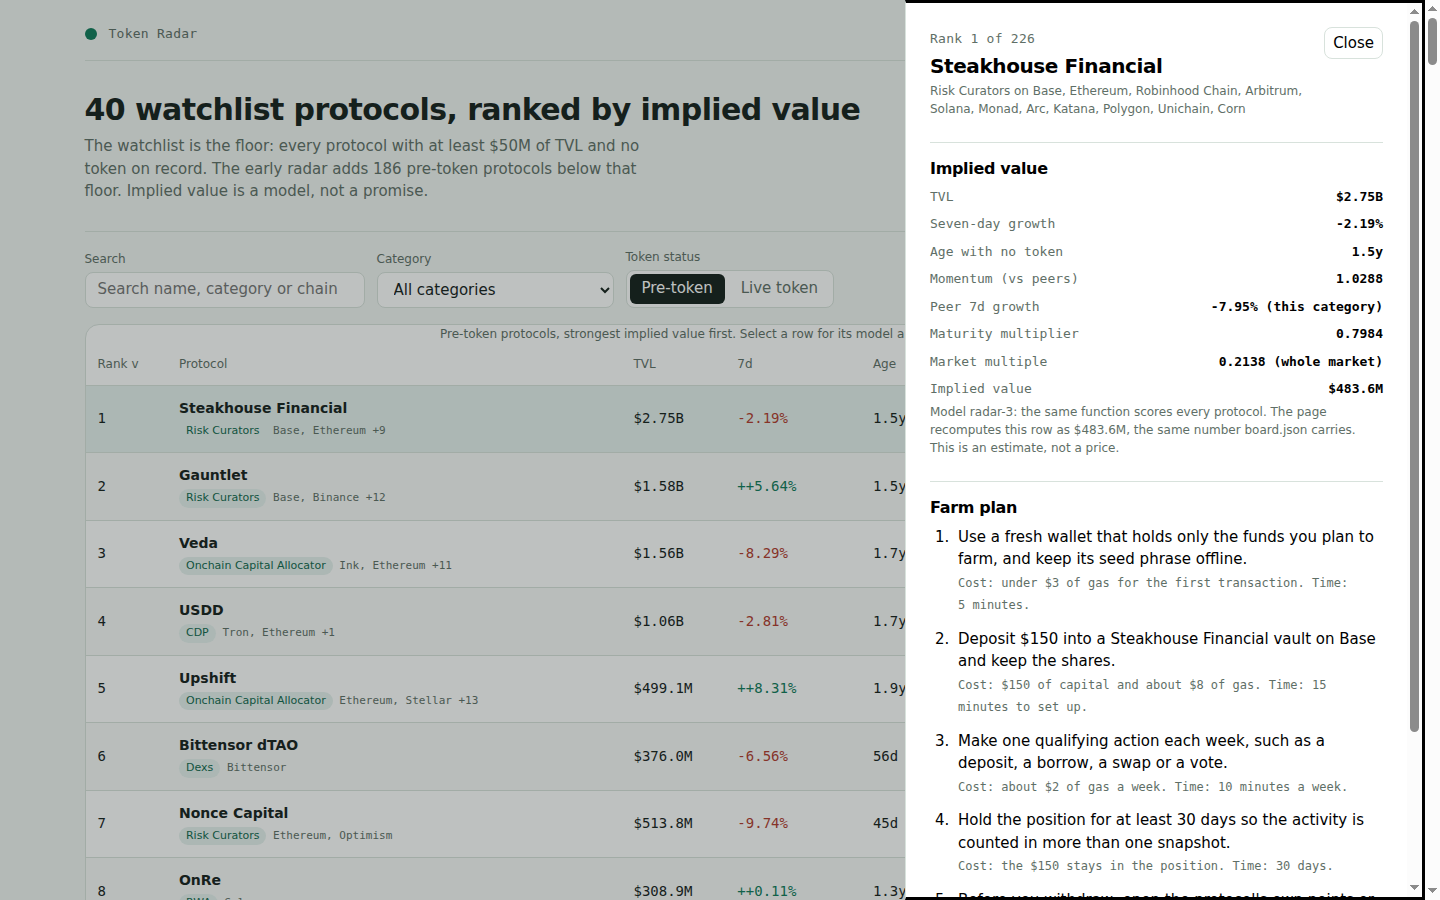
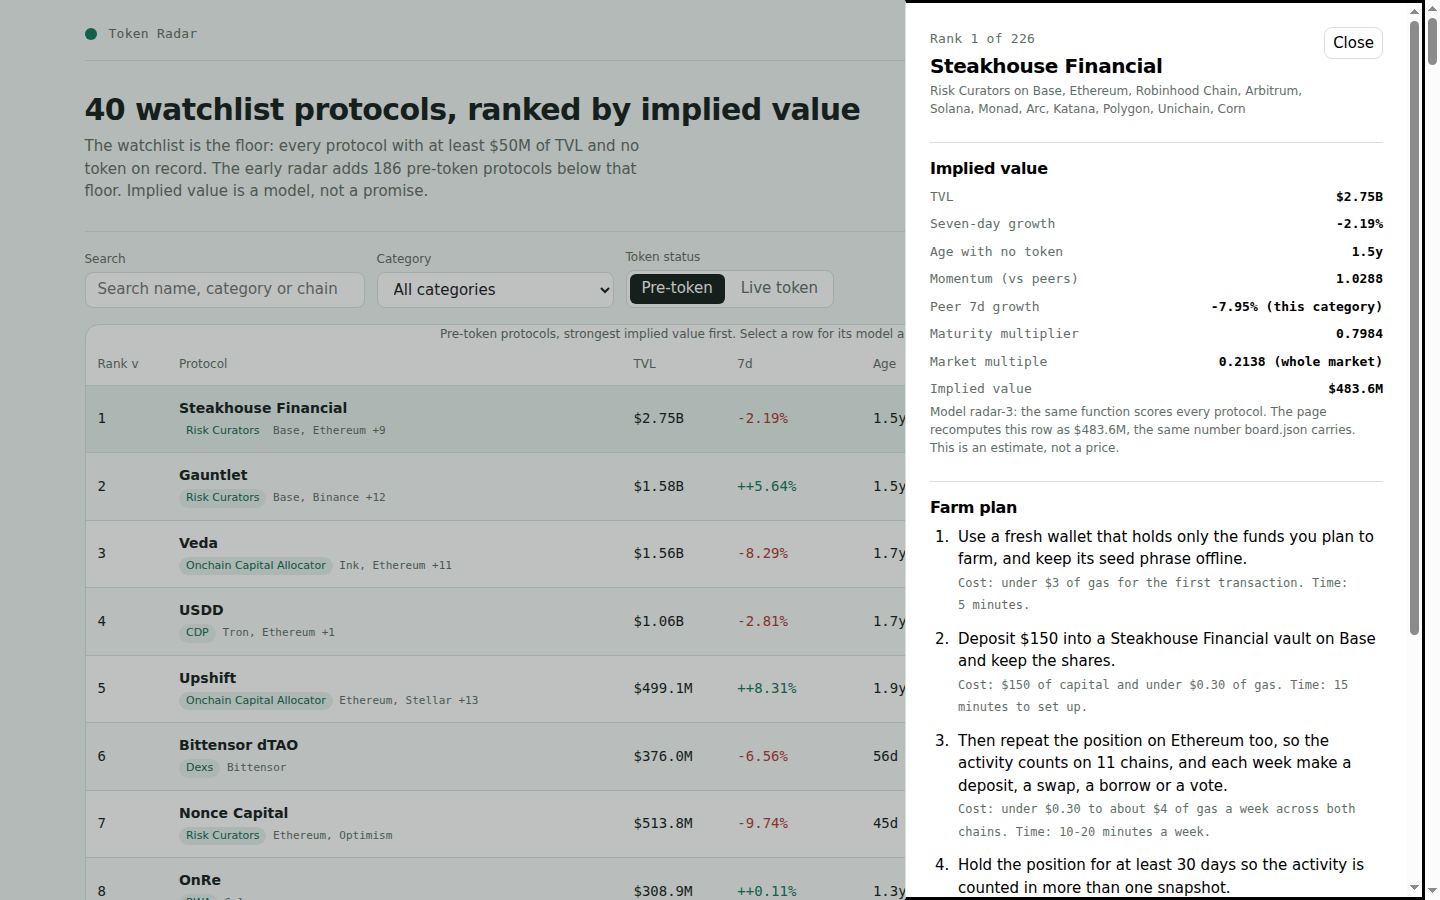
radar-3b: chain-aware gas and per-category risk in farm plans; live-token screenshot

Changed region(s): [[0.6562, 0.8089, 0.9375, 1.0], [0.8125, 0.7467, 0.9375, 0.7778], [0.9688, 0.7156, 1.0, 0.8089]]

diff --git a/dashboard/app.js b/dashboard/app.js
@@ -97,17 +97,47 @@
     if (s.length < 20) s = s + " Hold the position and check the protocol's own page.";
     return s;
   }
+  function gasFor(chain) {
+    var c = (chain || '').toLowerCase();
+    if (c.indexOf('ethereum') >= 0) return 'about $4';
+    if (c.indexOf('arbitrum') >= 0 || c.indexOf('optimism') >= 0 || c.indexOf('base') >= 0 || c.indexOf('polygon') >= 0 || c.indexOf('unichain') >= 0 || c.indexOf('ink') >= 0 || c.indexOf('linea') >= 0 || c.indexOf('scroll') >= 0 || c.indexOf('blast') >= 0 || c.indexOf('mantle') >= 0 || c.indexOf('zksync') >= 0) return 'under $0.30';
+    if (c.indexOf('solana') >= 0 || c.indexOf('sui') >= 0 || c.indexOf('aptos') >= 0 || c.indexOf('near') >= 0) return 'under $0.05';
+    return 'about $1';
+  }
+
+  function riskNoteFor(p) {
+    var c = (p.category || '').toLowerCase();
+    if (c.indexOf('bridge') >= 0 || c.indexOf('canonical') >= 0) return 'bridges hold user funds in one contract, so read its audits and its current TVL before you bridge anything, and never bridge more than you would lose.';
+    if (c.indexOf('oracle') >= 0) return 'an oracle earns from being right, so check which feeds it serves and who pays for them before you stake or deposit anything.';
+    if (c.indexOf('cdp') >= 0 || c.indexOf('stable') >= 0) return 'a stable or CDP position can be liquidated, so keep the collateral ratio well above the minimum and watch the peg.';
+    if (c.indexOf('perpetual') >= 0 || c.indexOf('derivative') >= 0 || c.indexOf('leveraged') >= 0) return 'leverage liquidates, so size the position so a 30% move does not close it.';
+    if (c.indexOf('curator') >= 0 || c.indexOf('allocator') >= 0 || c.indexOf('risk') >= 0) return 'a curator allocates other people\'s capital, so read which vaults it runs and how its fee is charged before you deposit.';
+    return 'check the protocol\'s audits and its TVL trend on DefiLlama before you deposit, and start with the smallest position that still counts.';
+  }
+
+  function weeklyFor(p) {
+    var c = (p.category || '').toLowerCase();
+    if (c.indexOf('lend') >= 0 || c.indexOf('cdp') >= 0) return 'borrow a small amount against the deposit and repay it the same week, so both a supply and a borrow count.';
+    if (c.indexOf('dex') >= 0 || c.indexOf('yield') >= 0) return 'swap a small amount through the pool you funded, so the position shows trading volume as well as liquidity.';
+    if (c.indexOf('bridge') >= 0) return 'send a small transfer back across the bridge once a week, so the route stays active.';
+    if (c.indexOf('staking') >= 0 || c.indexOf('restak') >= 0) return 'claim and restake the rewards once a week, so the receipt keeps compounding.';
+    return 'make a deposit, a swap, a borrow or a vote.';
+  }
+
   function farmSteps(p) {
     var chain = chainOf(p);
     var capital = capitalFor(p);
     var hold = holdDaysFor(p.age_days);
+    var second = p.chains && p.chains.length >= 2 ? p.chains[1] : null;
+    var weekly = 'Then each week ' + weeklyFor(p);
     return [
       { text: 'Use a fresh wallet that holds only the funds you plan to farm, and keep its seed phrase offline.', cost: 'under $3 of gas for the first transaction', time: '5 minutes' },
-      { text: actionFor(p, capital, chain), cost: '$' + capital + ' of capital and about $' + (capital >= 150 ? 8 : 4) + ' of gas', time: '15 minutes to set up' },
-      { text: 'Make one qualifying action each week, such as a deposit, a borrow, a swap or a vote.', cost: 'about $2 of gas a week', time: '10 minutes a week' },
+      { text: actionFor(p, capital, chain), cost: '$' + capital + ' of capital and ' + gasFor(chain) + ' of gas', time: '15 minutes to set up' },
+      { text: second === null ? weekly : 'Then repeat the position on ' + second + ' too, so the activity counts on ' + p.chains.length + ' chains, and each week ' + weeklyFor(p), cost: second === null ? gasFor(chain) + ' of gas a week' : gasFor(chain) + ' to ' + gasFor(second) + ' of gas a week across both chains', time: '10-20 minutes a week' },
       { text: 'Hold the position for at least ' + hold + ' days so the activity is counted in more than one snapshot.', cost: 'the $' + capital + ' stays in the position', time: hold + ' days' },
       { text: "Before you withdraw, open the protocol's own points or rewards page and claim only from the link it publishes.", cost: 'no fee to check, and never pay to claim', time: '10 minutes' },
-      { text: 'Write the wallet, the dates and every transaction in a farm log so you can repeat the position or unwind it.', cost: 'nothing but the log', time: '5 minutes' }
+      { text: 'Write the wallet, the dates and every transaction in a farm log so you can repeat the position or unwind it.', cost: 'nothing but the log', time: '5 minutes' },
+      { text: 'Before you commit, ' + riskNoteFor(p), cost: 'no fee to read, and worth an hour', time: '30-60 minutes' }
     ].map(stepText);
   }
 

diff --git a/lib/model.ts b/lib/model.ts
@@ -426,6 +426,26 @@ function capitalFor(p: SnapshotProtocol): number {
   return 50;
 }
 
+/** A rough gas figure for one transaction on a chain, from the chain's own economics. */
+function gasFor(chain: string): string {
+  const c = chain.toLowerCase();
+  if (c.includes('ethereum')) return 'about $4';
+  if (c.includes('arbitrum') || c.includes('optimism') || c.includes('base') || c.includes('polygon') || c.includes('unichain') || c.includes('ink') || c.includes('linea') || c.includes('scroll') || c.includes('blast') || c.includes('mantle') || c.includes('zksync')) return 'under $0.30';
+  if (c.includes('solana') || c.includes('sui') || c.includes('aptos') || c.includes('near')) return 'under $0.05';
+  return 'about $1';
+}
+
+/** The risk a reader should check before committing capital, read from the protocol's own category. */
+function riskNoteFor(p: SnapshotProtocol): string {
+  const c = (p.category ?? '').toLowerCase();
+  if (c.includes('bridge') || c.includes('canonical')) return 'bridges hold user funds in one contract, so read its audits and its current TVL before you bridge anything, and never bridge more than you would lose.';
+  if (c.includes('oracle')) return 'an oracle earns from being right, so check which feeds it serves and who pays for them before you stake or deposit anything.';
+  if (c.includes('cdp') || c.includes('stable')) return 'a stable or CDP position can be liquidated, so keep the collateral ratio well above the minimum and watch the peg.';
+  if (c.includes('perpetual') || c.includes('derivative') || c.includes('leveraged')) return 'leverage liquidates, so size the position so a 30% move does not close it.';
+  if (c.includes('curator') || c.includes('allocator') || c.includes('risk')) return 'a curator allocates other people\'s capital, so read which vaults it runs and how its fee is charged before you deposit.';
+  return 'check the protocol\'s audits and its TVL trend on DefiLlama before you deposit, and start with the smallest position that still counts.';
+}
+
 /** How long to hold, from the protocol's age: younger protocols get a longer qualifying window. */
 function holdDaysFor(age: number | null): number {
   if (age === null) return 30;
@@ -469,7 +489,7 @@ export function farmSteps(p: SnapshotProtocol, age: number | null): FarmStep[] {
         ? 'send a small transfer back across the bridge once a week, so the route stays active.'
         : c.includes('staking') || c.includes('restak')
           ? 'claim and restake the rewards once a week, so the receipt keeps compounding.'
-          : 'make one qualifying action each week: a deposit, a swap, a borrow or a vote.';
+          : 'make a deposit, a swap, a borrow or a vote.';
   const second = p.chains.length >= 2 ? p.chains[1]! : null;
   return [
     {
@@ -479,14 +499,14 @@ export function farmSteps(p: SnapshotProtocol, age: number | null): FarmStep[] {
     },
     {
       text: action,
-      cost: `$${capital} of capital and about $${capital >= 150 ? 8 : 4} of gas`,
+      cost: `$${capital} of capital and ${gasFor(chain)} of gas`,
       time: '15 minutes to set up',
     },
     {
       text: second === null
         ? `Then each week ${weekly}`
         : `Then repeat the position on ${second} too, so the activity counts on ${p.chains.length} chains, and each week ${weekly}`,
-      cost: second === null ? 'about $2 of gas a week' : 'about $4 of gas a week across both chains',
+      cost: second === null ? `${gasFor(chain)} of gas a week` : `${gasFor(chain)} to ${gasFor(second)} of gas a week across both chains`,
       time: '10-20 minutes a week',
     },
     {
@@ -503,6 +523,11 @@ export function farmSteps(p: SnapshotProtocol, age: number | null): FarmStep[] {
       text: `Write the wallet, the dates and every transaction in a farm log so you can repeat the position or unwind it.`,
       cost: 'nothing but the log',
       time: '5 minutes',
+    },
+    {
+      text: `Before you commit, ${riskNoteFor(p)}`,
+      cost: 'no fee to read, and worth an hour',
+      time: '30-60 minutes',
     },
   ];
 }
